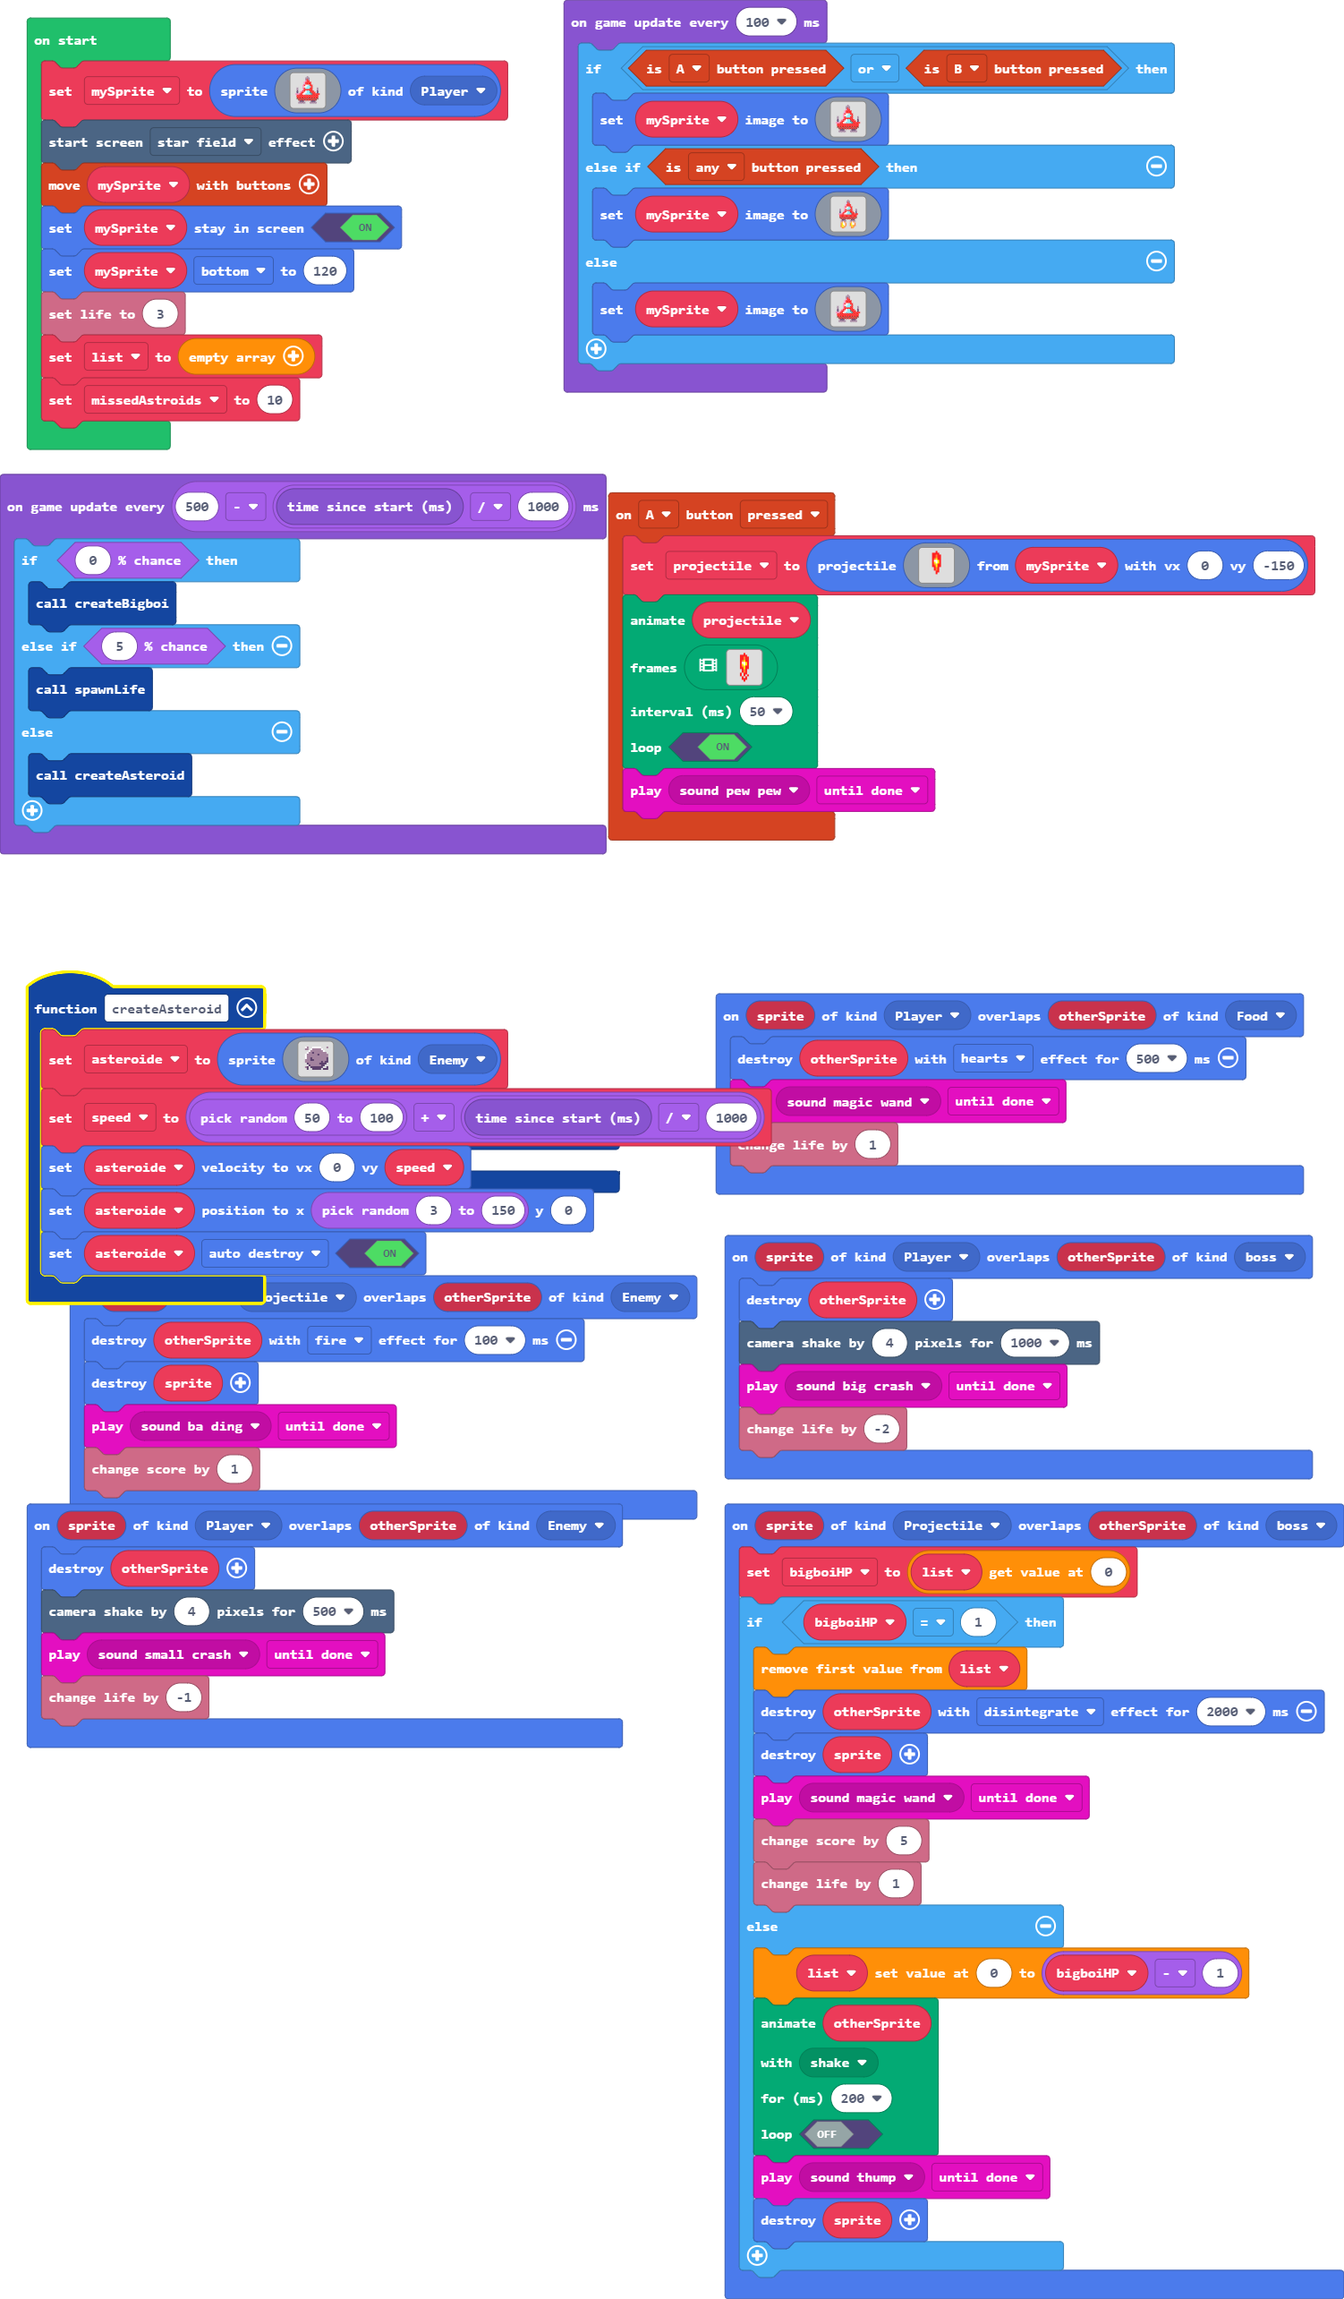
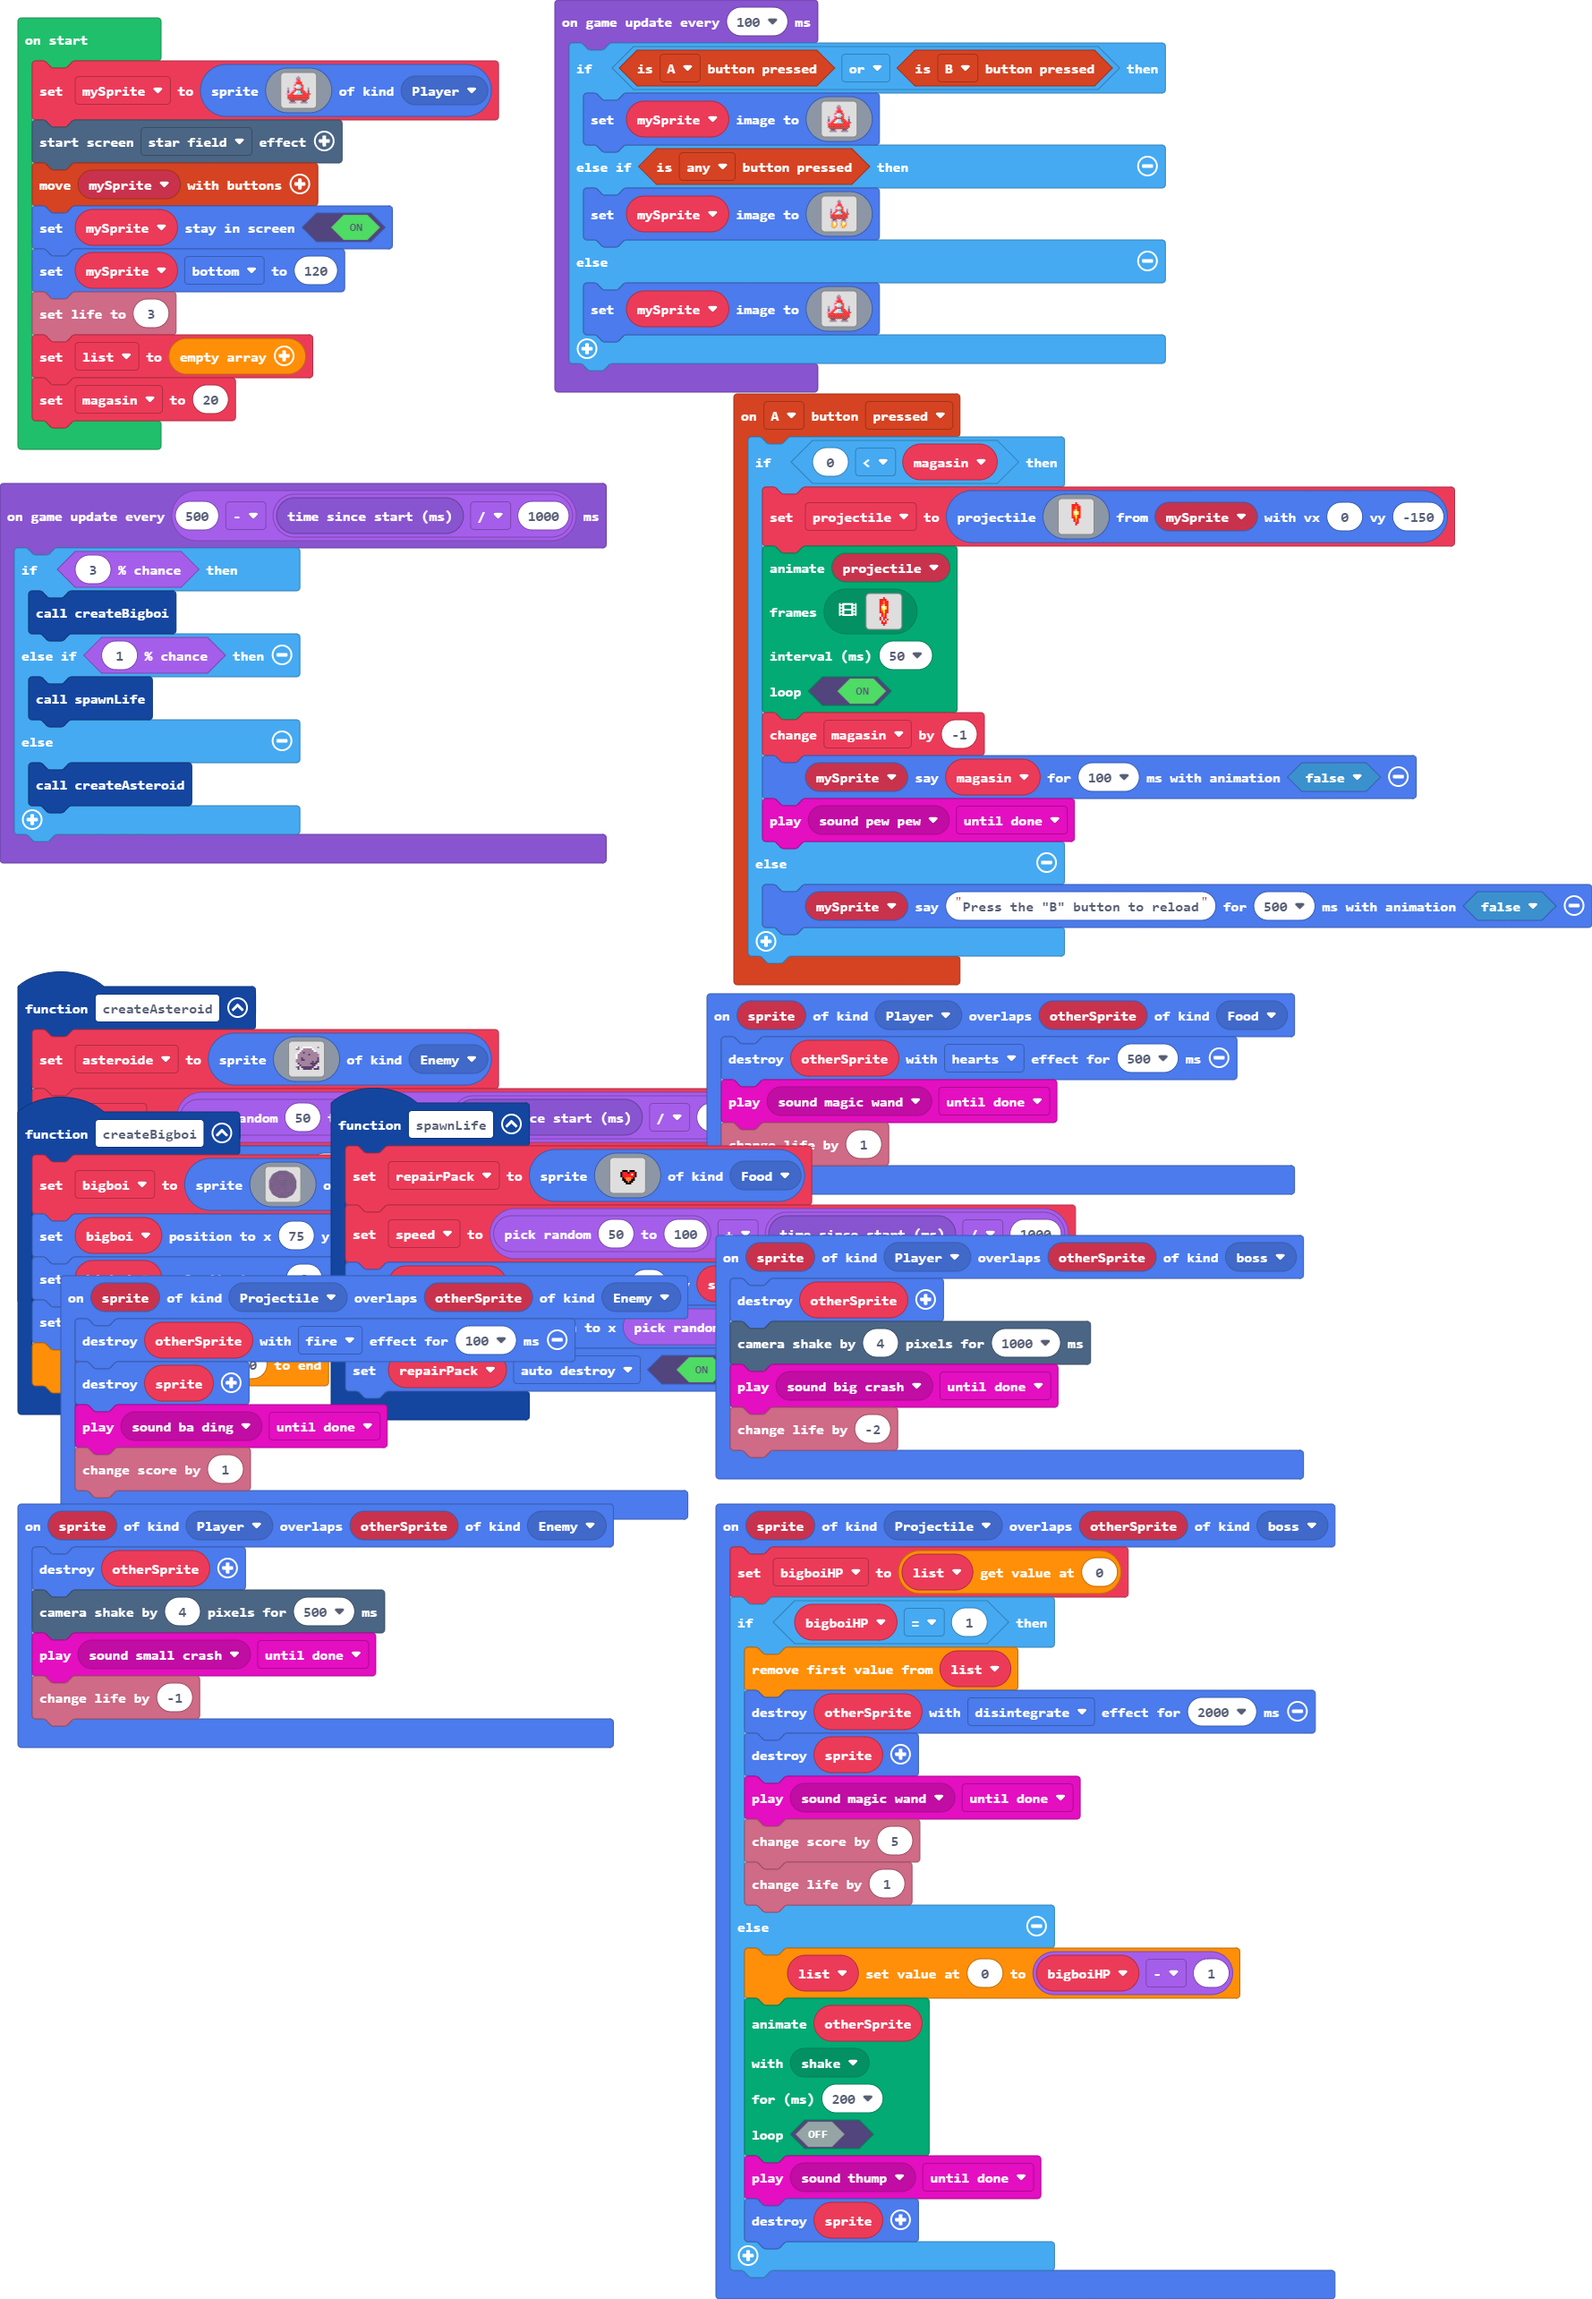
Added a magasine

diff --git a/main.ts b/main.ts
@@ -65,65 +65,71 @@ function createBigboi () {
     list.push(10)
 }
 controller.A.onEvent(ControllerButtonEvent.Pressed, function () {
-    projectile = sprites.createProjectileFromSprite(img`
-        . . 2 . . 
-        2 2 2 2 . 
-        2 2 4 2 2 
-        2 2 4 2 2 
-        2 4 5 2 2 
-        2 1 1 5 2 
-        2 5 1 5 2 
-        2 4 5 2 2 
-        2 2 5 2 2 
-        . 2 4 2 . 
-        . 2 4 2 . 
-        . . 2 2 . 
-        . . 2 . . 
-        . . . . . 
-        . . . . . 
-        . . . . . 
-        `, mySprite, 0, -150)
-    animation.runImageAnimation(
-    projectile,
-    [img`
-        . . 2 . . 
-        2 2 2 2 . 
-        2 2 4 2 2 
-        2 2 4 2 2 
-        2 4 5 2 2 
-        2 1 1 5 2 
-        2 5 1 5 2 
-        2 4 5 2 2 
-        2 2 5 2 2 
-        . 2 4 2 . 
-        . 2 4 2 . 
-        2 . 2 2 . 
-        2 . 2 . 2 
-        . 2 . 2 . 
-        . 2 2 2 . 
-        . . 2 . . 
-        `,img`
-        . . 2 . . 
-        . 2 2 2 2 
-        2 2 4 2 2 
-        2 2 4 2 2 
-        2 2 5 4 2 
-        2 5 1 1 2 
-        2 5 1 5 2 
-        2 2 5 4 2 
-        2 2 5 2 2 
-        . 2 4 2 . 
-        . 2 4 2 . 
-        . 2 2 . 2 
-        2 . 2 . 2 
-        . 2 . 2 . 
-        . 2 2 2 . 
-        . . 2 . . 
-        `],
-    50,
-    true
-    )
-    music.play(music.melodyPlayable(music.pewPew), music.PlaybackMode.UntilDone)
+    if (0 < magasin) {
+        projectile = sprites.createProjectileFromSprite(img`
+            . . 2 . . 
+            2 2 2 2 . 
+            2 2 4 2 2 
+            2 2 4 2 2 
+            2 4 5 2 2 
+            2 1 1 5 2 
+            2 5 1 5 2 
+            2 4 5 2 2 
+            2 2 5 2 2 
+            . 2 4 2 . 
+            . 2 4 2 . 
+            . . 2 2 . 
+            . . 2 . . 
+            . . . . . 
+            . . . . . 
+            . . . . . 
+            `, mySprite, 0, -150)
+        animation.runImageAnimation(
+        projectile,
+        [img`
+            . . 2 . . 
+            2 2 2 2 . 
+            2 2 4 2 2 
+            2 2 4 2 2 
+            2 4 5 2 2 
+            2 1 1 5 2 
+            2 5 1 5 2 
+            2 4 5 2 2 
+            2 2 5 2 2 
+            . 2 4 2 . 
+            . 2 4 2 . 
+            2 . 2 2 . 
+            2 . 2 . 2 
+            . 2 . 2 . 
+            . 2 2 2 . 
+            . . 2 . . 
+            `,img`
+            . . 2 . . 
+            . 2 2 2 2 
+            2 2 4 2 2 
+            2 2 4 2 2 
+            2 2 5 4 2 
+            2 5 1 1 2 
+            2 5 1 5 2 
+            2 2 5 4 2 
+            2 2 5 2 2 
+            . 2 4 2 . 
+            . 2 4 2 . 
+            . 2 2 . 2 
+            2 . 2 . 2 
+            . 2 . 2 . 
+            . 2 2 2 . 
+            . . 2 . . 
+            `],
+        50,
+        true
+        )
+        magasin += -1
+        mySprite.sayText(magasin, 100, false)
+        music.play(music.melodyPlayable(music.pewPew), music.PlaybackMode.UntilDone)
+    } else {
+        mySprite.sayText("Press the \"B\" button to reload", 500, false)
+    }
 })
 function createAsteroid () {
     asteroide = sprites.create(img`
@@ -217,6 +223,7 @@ let speed = 0
 let asteroide: Sprite = null
 let projectile: Sprite = null
 let bigboi: Sprite = null
+let magasin = 0
 let list: number[] = []
 let mySprite: Sprite = null
 mySprite = sprites.create(img`
@@ -247,7 +254,7 @@ mySprite.setStayInScreen(true)
 mySprite.bottom = 120
 info.setLife(3)
 list = []
-let missedAstroids = 10
+magasin = 20
 game.onUpdateInterval(100, function () {
     if (controller.A.isPressed() || controller.B.isPressed()) {
         mySprite.setImage(img`
@@ -326,9 +333,9 @@ game.onUpdateInterval(100, function () {
     }
 })
 game.onUpdateInterval(500 - game.runtime() / 1000, function () {
-    if (Math.percentChance(0)) {
+    if (Math.percentChance(3)) {
         createBigboi()
-    } else if (Math.percentChance(5)) {
+    } else if (Math.percentChance(1)) {
         spawnLife()
     } else {
         createAsteroid()
